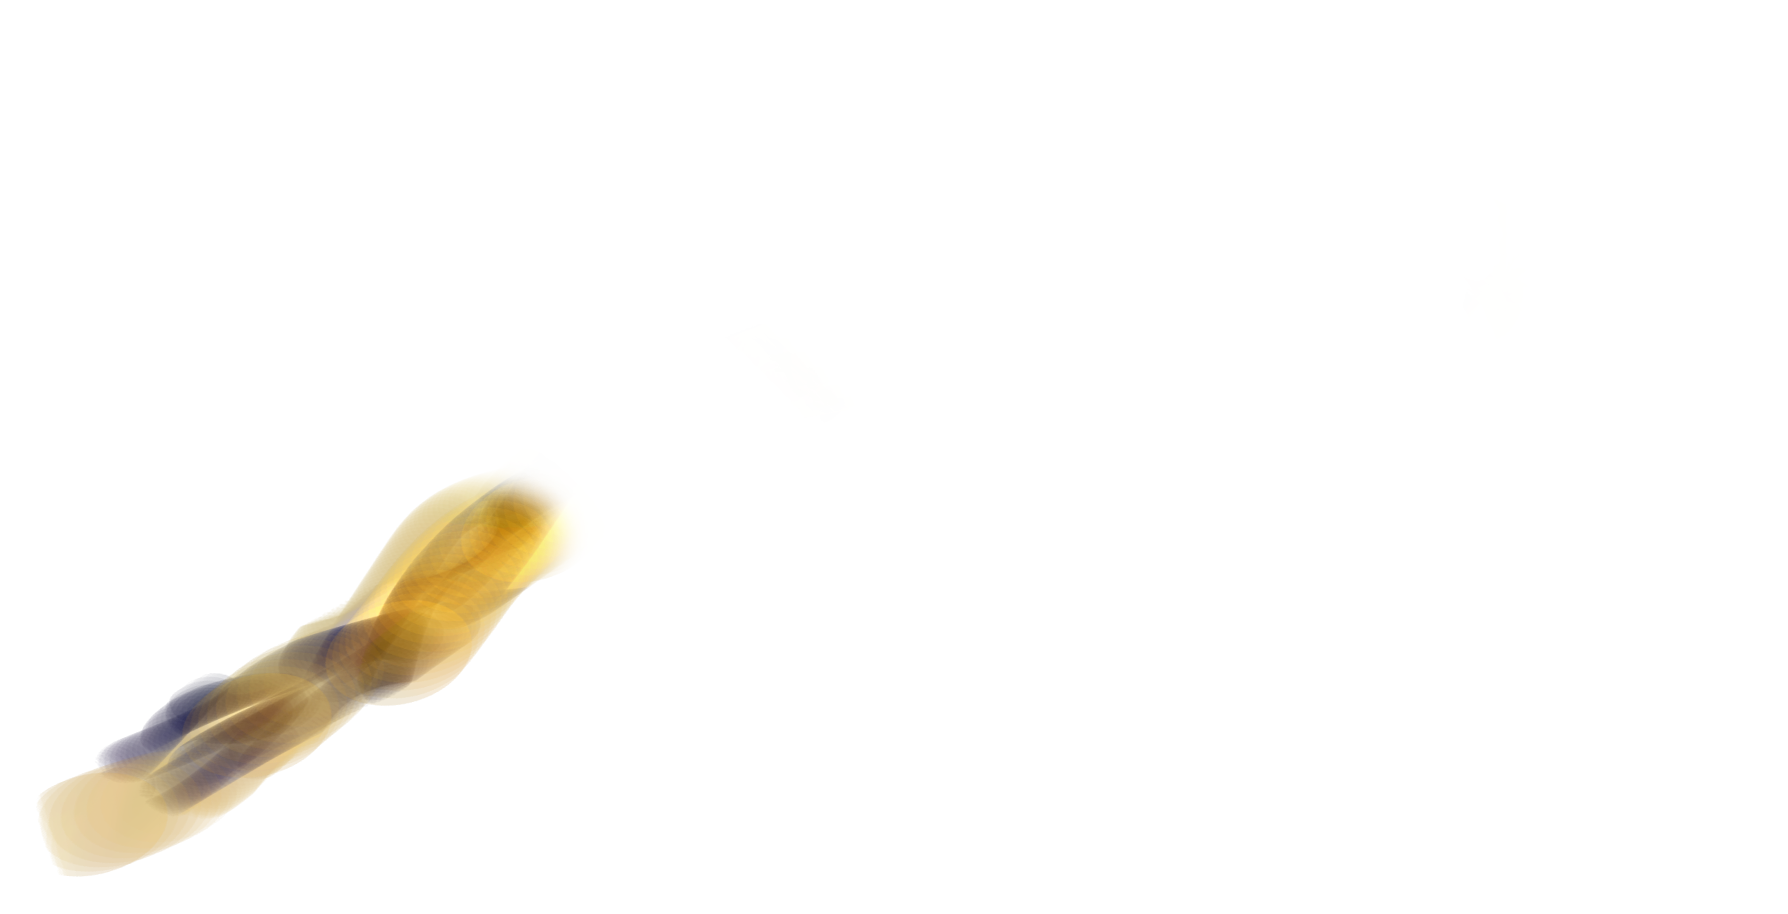
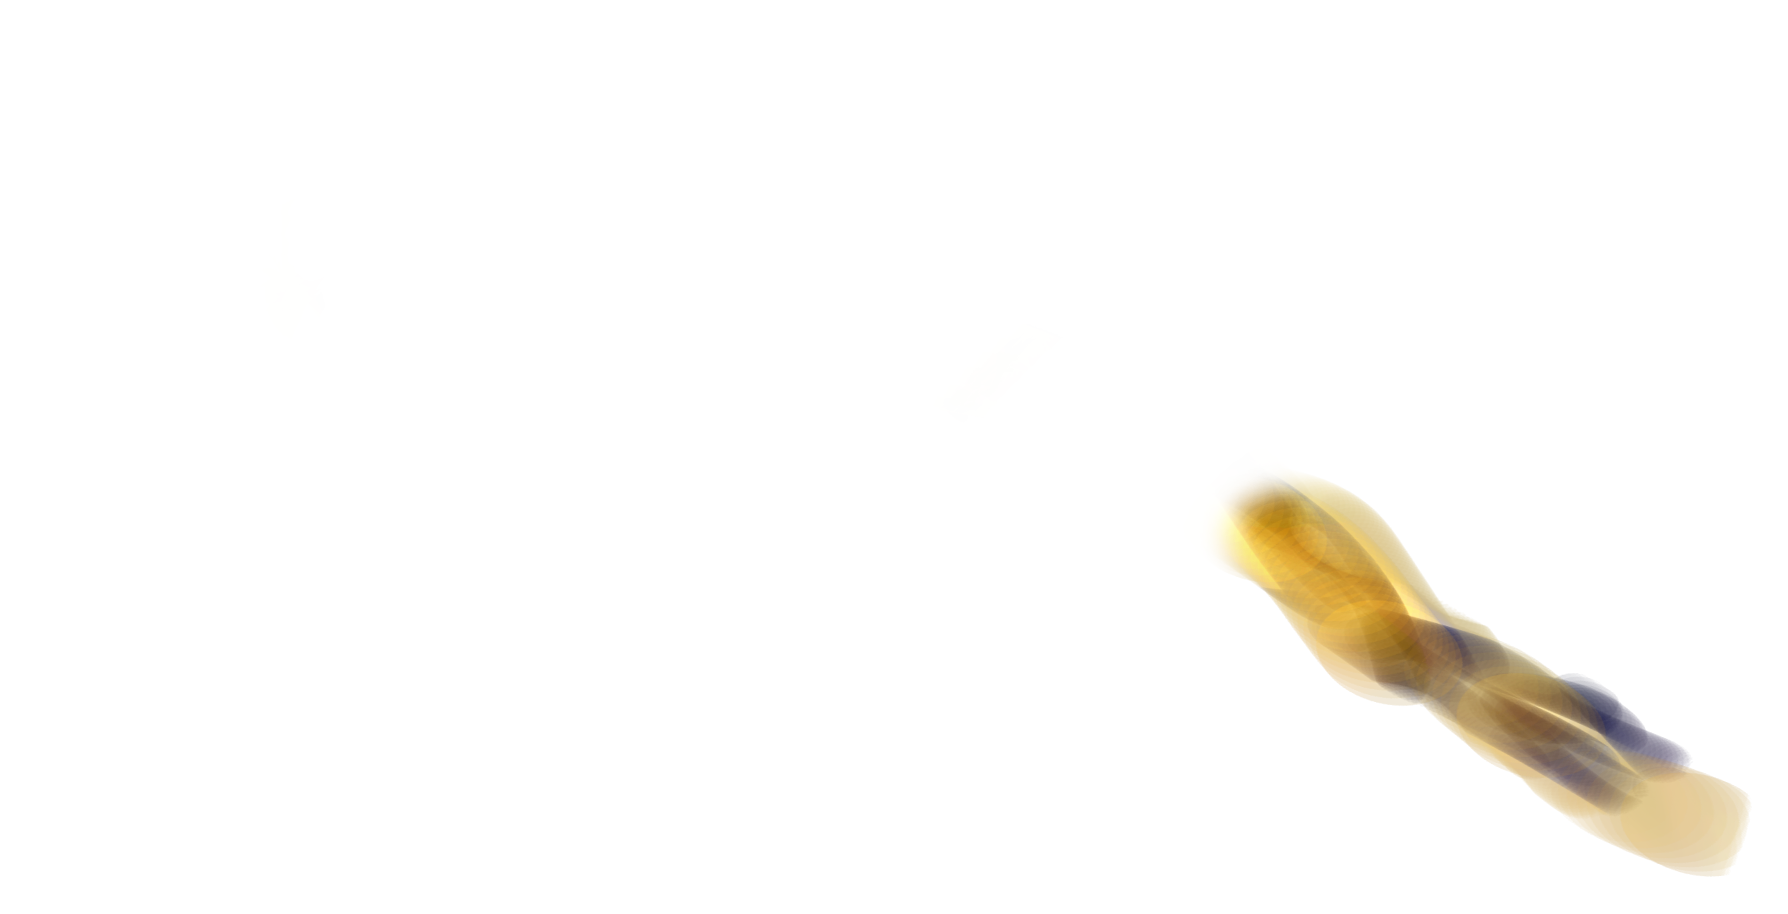
commit fixed RNA order

Changed region(s): [[0.6767, 0.5208, 0.9843, 0.9803], [0.0, 0.5208, 0.3384, 0.9803]]

diff --git a/lvl_transcription.go b/lvl_transcription.go
@@ -12,8 +12,6 @@ var (
 	rna         [5]Transcript
 	dna         [5]Template
 	spots       = [3]int{350, 650, 950}
-	DNAbases 	[15]Nucleobase
-	RNAbases	[15]Nucleobase
 )
 
 type TranscriptionLevel struct {
@@ -21,6 +19,11 @@ type TranscriptionLevel struct {
 	nucleusBg         StillImage
 	temp_tfa          TFA
 	rnaPolymerase     RNAPolymerase
+	RNA               [5]Transcript
+	DNA               [5]Template
+	DNAbases    	  [15]Nucleobase
+	origRNAbases	  [15]Nucleobase	// Dummy list containing positions and bases, accessed by RNA bases
+	RNAbases 		  [15]Nucleobase 	// List that is actually drawn onto screen and updated.
 	rightChoice       CodonChoice
 	wrongChoice1      CodonChoice
 	wrongChoice2      CodonChoice
@@ -41,9 +44,10 @@ func newTranscriptionLevel(g *Game) {
 		transcriptionStruct = &TranscriptionLevel{
 			nucleusBg: newStillImage("NucleusBg.png", newRect(0, 0, 1250, 750)),
 
-			temp_tfa:      newTFA("inact_TFA.png", "act_TFA.png", newRect(450, -100, 150, 150), "tfa2"),
+			temp_tfa:      newTFA("inact_TFA.png", "act_TFA.png", newRect(420, -100, 150, 150), "tfa2"),
 			rnaPolymerase: newRNAPolymerase("rnaPolym.png", newRect(-400, 100, 340, 265)),
-
+			DNA:           dna,
+			RNA:           rna,
 			message: "WELCOME TO THE NUCLEUS! \n" +
 				"Drag the complementary RNA codon \n" +
 				"to RNA Polymerase to transcribe \n" +
@@ -58,6 +62,9 @@ func newTranscriptionLevel(g *Game) {
 
 		g.transcriptionSprites = []GUI{
 			&transcriptionStruct.nucleusBg, &transcriptionStruct.temp_tfa,
+			&transcriptionStruct.DNA[0],
+			&transcriptionStruct.RNA[1], &transcriptionStruct.RNA[2],
+			&transcriptionStruct.RNA[3], &transcriptionStruct.RNA[4],
 			&transcriptionStruct.rnaPolymerase, &transcriptionStruct.rightChoice,
 			&transcriptionStruct.wrongChoice1, &transcriptionStruct.wrongChoice2,
 			&transcriptionStruct.otherToMenuButton, &transcriptionStruct.infoButton,
@@ -68,11 +75,18 @@ func newTranscriptionLevel(g *Game) {
 
 func (t *TranscriptionLevel) Init(g *Game) {
 	currentFrag = 0
-	for x := 0; x < len(RNAbases); x++ {
-		base := string(rna[x/3].codon[x%3])
-		posX := 125+rna[4].rect.pos.x + (50*x)
-		posY := rna[4].rect.pos.y+275 - (15*x)
-		RNAbases[x] = newNucleobase(base, newRect(posX, posY, 65, 150), x, false)
+	for x := 0; x < len(t.origRNAbases); x++ {
+		base := string(t.RNA[x/3].codon[x%3])
+		posX := 125 + t.RNA[currentFrag].rect.pos.x + (50 * x)
+		posY := 250 + t.RNA[currentFrag].rect.pos.y + 220 - (15 * x)
+		t.origRNAbases[x] = newNucleobase(base, newRect(posX, posY, 65, 150), x, false)
+	}
+	t.RNAbases = t.origRNAbases
+	for x := 0; x < len(t.DNAbases); x++ {
+		base := string(t.DNA[x/3].codon[x%3])
+		posX := t.DNA[2].rect.pos.x + (50 * x)
+		posY := t.DNA[2].rect.pos.y
+		t.DNAbases[x] = newNucleobase(base, newRect(posX, posY, 65, 150), x, true)
 	}
 	t.ResetChoices()
 	g.state_array = g.transcriptionSprites
@@ -85,14 +99,21 @@ func (t *TranscriptionLevel) ResetChoices() {
 	t.rightChoice.reset(0, 600, transcribe(curr.codon))
 	t.wrongChoice1.reset(1, 600, randomRNACodon(t.rightChoice.bases))
 	t.wrongChoice2.reset(2, 600, randomRNACodon(t.rightChoice.bases))
+	for x := 0; x < currentFrag*3; x++ {
+		temp := (currentFrag*3) - 1 - x
+		base := t.RNAbases[x]
+		base.rect.pos.y = t.origRNAbases[temp].rect.pos.y
+		t.RNAbases[x] = base
+	}
 	reset = false
 }
 
 func (t *TranscriptionLevel) Update(g *Game) {
 	t.otherToMenuButton.update(g)
+	t.RNA[currentFrag].update()
 	t.infoButton.update()
 	t.temp_tfa.update()
-	t.rnaPolymerase.update(t.temp_tfa.rect.pos.y)
+	t.rnaPolymerase.update(g)
 
 	curr := &dna[currentFrag]
 
@@ -105,13 +126,9 @@ func (t *TranscriptionLevel) Update(g *Game) {
 	t.wrongChoice1.update(curr)
 	t.wrongChoice2.update(curr)
 
-	if curr.is_complete {
-		nextDNACodon(g)
-	}
-
-	for i, base := range RNAbases {
+	for i, base := range t.RNAbases {
 		base.update()
-		RNAbases[i] = base
+		t.RNAbases[i] = base
 	}
 
 }
@@ -119,9 +136,9 @@ func (t *TranscriptionLevel) Update(g *Game) {
 func (t *TranscriptionLevel) Draw(g *Game, screen *ebiten.Image) {
 	t.nucleusBg.draw(screen)
 
-	rna[currentFrag].draw(screen)
+	t.RNA[currentFrag].draw(screen)
 	t.rnaPolymerase.draw(screen)
-	dna[0].draw(screen)
+	t.DNA[0].draw(screen)
 	t.temp_tfa.draw(screen)
 	//codonFont.drawFont(screen, strings.Join(template[0:5], ""), dna[currentFrag].rect.pos.x+300, dna[currentFrag].rect.pos.y, color.Black)
 
@@ -129,13 +146,25 @@ func (t *TranscriptionLevel) Draw(g *Game, screen *ebiten.Image) {
 	t.wrongChoice1.draw(screen)
 	t.wrongChoice2.draw(screen)
 
-	for z := 0; z < currentFrag*3; z++ {
-		RNAbases[z].draw(screen)
+	for y := 0; y < currentFrag*3; y++ {
+		t.RNAbases[y].draw(screen)
 	}
 
 	if currentFrag != -1 {
-		codonFont.drawFont(screen, dna[currentFrag].codon, dna[0].rect.pos.x+500, dna[0].rect.pos.y+50, color.Black)
+		if currentFrag == 0 {
+			t.DNAbases[0].draw(screen)
+			t.DNAbases[1].draw(screen)
+			t.DNAbases[2].draw(screen)
+		} else {
+			for y := 0; y < 3; y++ {
+				t.DNAbases[(currentFrag*3)+y].draw(screen)
+			}
+		}
 	}
+
+	//if currentFrag != -1 {
+	//	codonFont.drawFont(screen, dna[currentFrag].codon, dna[0].rect.pos.x+500, dna[0].rect.pos.y+50, color.Black)
+	//}
 
 	defaultFont.drawFont(screen, t.message, 75, 50, color.Black)
 

diff --git a/gui.go b/gui.go
@@ -79,6 +79,7 @@ type TFA struct {
 type Transcript struct {
 	Sprite
 	codon string
+	isRNA bool
 }
 
 type Template struct {
@@ -580,9 +581,15 @@ func (t *TFA) update(params ...interface{}) {
 		if t.rect.pos.y <= screenHeight && t.tfaType == "tfa1" {
 			t.rect.pos.y += 2 * (screenHeight / 750)
 		}
-		if t.rect.pos.y <= 450 && t.tfaType == "tfa2" {
-			t.rect.pos.y += 4 * (screenHeight / 750)
-			t.rect.pos.x -= 2 * (screenWidth / 1250)
+		if t.tfaType == "tfa2" {
+			rnaPolymPos := transcriptionStruct.rnaPolymerase.rect.pos
+			if rnaPolymPos.x >= 80 {
+				t.rect.pos.x = rnaPolymPos.x + 60
+				t.rect.pos.y = rnaPolymPos.y + 115
+			} else if t.rect.pos.y <= 450 {
+				t.rect.pos.y += 4 * (screenHeight / 750)
+				t.rect.pos.x -= 2 * (screenWidth / 1250)
+			}
 		}
 	}
 }
@@ -605,40 +612,52 @@ func newRNAPolymerase(path string, rect Rectangle) RNAPolymerase {
 
 func (r *RNAPolymerase) update(params ...interface{}) {
 	if len(params) > 0 {
-		tfaPosY, ok := params[0].(int)
+		g, ok := params[0].(*Game)
+		tfaPosY := transcriptionStruct.temp_tfa.rect.pos.y
 		if !ok {
 			return
 		}
-		if tfaPosY >= 450 {
-			if r.rect.pos.x <= 110 {
-				r.rect.pos.y += 1 * (screenHeight / 750)
-				r.rect.pos.x += 2 * (screenWidth / 1250)
+		if tfaPosY >= 420 {
+			if r.rect.pos.x <= 80 {
+				r.rect.pos.y += 2 * (screenHeight / 750)
+				r.rect.pos.x += 4 * (screenWidth / 1250)
+			}
+		}
+		// Checks if current DNA codon is complete
+		if dna[currentFrag].is_complete {
+			if currentFrag == 4 && r.rect.pos.x < screenWidth+50 {
+				r.rect.pos.x += 5 * (screenWidth / 1250)
+				r.rect.pos.y += 3 * (screenHeight / 750)
+			} else if r.rect.pos.x < (160 * (currentFrag + 1)) {
+				r.rect.pos.x += 5 * (screenWidth / 1250)
+			} else {
+				nextDNACodon(g)
 			}
 		}
 	}
 }
 
 func (r RNAPolymerase) draw(screen *ebiten.Image) {
-	op := &ebiten.DrawImageOptions{}
-	op.GeoM.Translate(float64(r.rect.pos.x), float64(r.rect.pos.y))
-	scaleW := float64(screenWidth) / 1250
-	scaleH := float64(screenHeight) / 750
-	op.GeoM.Scale(scaleW, scaleH)
-	r.rect.width *= int(scaleW)
-	r.rect.height *= int(scaleH)
-	screen.DrawImage(r.image, op)
+	r.Sprite.draw(screen)
 }
 
-func newTranscript(path string, rect Rectangle, codon string) Transcript {
+func newTranscript(path string, rect Rectangle, codon string, isRNA bool) Transcript {
 	sprite := newSprite(path, rect, 0.5)
 	return Transcript{
 		Sprite: sprite,
 		codon:  codon,
+		isRNA:  isRNA,
 	}
 }
 
 func (transcr Transcript) draw(screen *ebiten.Image) {
 	transcr.Sprite.draw(screen)
+}
+
+func (transcr *Transcript) update(params ...interface{}) {
+	if transcr.isRNA {
+		transcr.rect.pos.x = transcriptionStruct.rnaPolymerase.rect.pos.x - 750
+	}
 }
 
 func newTemplate(path string, rect Rectangle, codon string, fragment int) Template {
@@ -654,6 +673,8 @@ func newTemplate(path string, rect Rectangle, codon string, fragment int) Templa
 func (temp Template) draw(screen *ebiten.Image) {
 	temp.Sprite.draw(screen)
 }
+
+func (temp Template) update(params ...interface{}) {}
 
 func (transcr *Transcript) move() {
 	if transcr.rect.pos.x < 1250 {
@@ -782,8 +803,10 @@ func (ribo Ribosome) draw(screen *ebiten.Image) {
 
 func newNucleobase(btype string, rect Rectangle, index int, isTemp bool) Nucleobase {
 	path := nucleobaseImages[btype]
-	sprite := newSprite(path, rect, 0.5)
-	if isTemp == false {sprite.op.Rotate(-3.14)}
+	sprite := newSprite(path, rect, 0.48)
+	if !isTemp {
+		sprite.op.Rotate(-3.14)
+	}
 	return Nucleobase{
 		Sprite:     sprite,
 		baseType:   btype,
@@ -802,13 +825,17 @@ var nucleobaseImages = map[string]string{
 
 func (n Nucleobase) draw(screen *ebiten.Image) {
 	n.Sprite.draw(screen)
-	codonFont.drawFont(screen, n.baseType, n.rect.pos.x-50, n.rect.pos.y-50, color.Black)
+	if !n.isTemplate {
+		codonFont.drawFont(screen, n.baseType, n.rect.pos.x-50, n.rect.pos.y-50, color.Black)
+	} else {
+		codonFont.drawFont(screen, n.baseType, n.rect.pos.x, n.rect.pos.y+100, color.Black)
+	}
+
 }
 
 func (n *Nucleobase) update(params ...interface{}) {
-	posX := 150 + rna[4].rect.pos.x + (50 * n.index)
-	n.rect.pos.x = posX
-	n.rect.pos.y = rna[4].rect.pos.y + 500 - (25 * n.index)
+	n.rect.pos.x = (675 + transcriptionStruct.RNA[currentFrag].rect.pos.x + (50 * n.index)) - 150*(currentFrag-1)
+	n.rect.pos.y = (transcriptionStruct.RNA[4].rect.pos.y + 400 + (25 * n.index)) - 75*(currentFrag-1)
 }
 
 func (n Nucleobase) String() string {

diff --git a/lvl_translation.go b/lvl_translation.go
@@ -9,14 +9,16 @@ import (
 
 var (
 	mrna_ptr = 0
-	mrna     [5]Template
-	protein  [5]Transcript
+	mrna     	[5]Template
+	protein  	[5]Transcript	
+	mRNAbases   [15]Nucleobase
 )
 
 type TranslationLevel struct {
 	// TRANSLATION SPRITES
 	cytoBg_2          StillImage
 	ribosome          Ribosome
+	mRNA			  [5]Template
 	rightTrna         tRNA
 	wrongTrna1        tRNA
 	wrongTrna2        tRNA
@@ -33,7 +35,7 @@ func newTranslationLevel(g *Game) {
 			cytoBg_2: newStillImage("CytoBg2.png", newRect(0, 0, 1250, 750)),
 
 			ribosome: newRibosome("ribosome.png", newRect(40, 300, 404, 367)),
-
+			mRNA: mrna,
 			message: 
 				"FINALLY, BACK TO THE CYTOPLASM! \n" +
 				"Drag the tRNA with the corresponding \n" +
@@ -49,6 +51,7 @@ func newTranslationLevel(g *Game) {
 
 		g.translationSprites = []GUI{
 			&translationStruct.cytoBg_2, &translationStruct.ribosome, 
+			&translationStruct.mRNA[0],
 			&translationStruct.rightTrna, &translationStruct.wrongTrna1,
 			&translationStruct.wrongTrna2, &translationStruct.otherToMenuButton,
 			&translationStruct.infoButton, 
@@ -59,7 +62,12 @@ func newTranslationLevel(g *Game) {
 
 func (t *TranslationLevel) Init(g *Game) {
 	mrna_ptr = 0
-	reset = false
+	for x := 0; x < len(mRNAbases); x++ {
+		base := string(mrna[x/3].codon[x%3])
+		posX := mrna[2].rect.pos.x + (50 * x)
+		posY := mrna[2].rect.pos.y
+		mRNAbases[x] = newNucleobase(base, newRect(posX, posY, 65, 150), x, true)
+	}
 	t.ResetChoices()
 	g.state_array = g.translationSprites
 }
@@ -91,7 +99,7 @@ func (t *TranslationLevel) Update(g *Game) {
 func (t *TranslationLevel) Draw(g *Game, screen *ebiten.Image) {
 	t.cytoBg_2.draw(screen)
 
-	mrna[0].draw(screen)
+	t.mRNA[0].draw(screen)
 
 	t.rightTrna.draw(screen)
 	t.wrongTrna1.draw(screen)
@@ -107,11 +115,19 @@ func (t *TranslationLevel) Draw(g *Game, screen *ebiten.Image) {
 		}
 	}
 
-	if mrna_ptr != -1 {
-		codonFont.drawFont(screen, mrna[mrna_ptr].codon, mrna[0].rect.pos.x+500, mrna[0].rect.pos.y+300, color.Black)
-	}
-
 	t.ribosome.draw(screen)
+
+	if mrna_ptr != -1 {
+		if mrna_ptr == 0 {
+			mRNAbases[0].draw(screen)
+			mRNAbases[1].draw(screen)
+			mRNAbases[2].draw(screen)
+		} else {
+			for y := 0; y < 3; y++ {
+				mRNAbases[(mrna_ptr*3)+y].draw(screen)
+			}
+		}
+	}
 
 	defaultFont.drawFont(screen, t.message, 75, 50, color.Black)
 

diff --git a/scene_switch.go b/scene_switch.go
@@ -71,13 +71,13 @@ func (g *Game) reset() {
 		dna[x] = newTemplate("DNA.png", newRect(200*x, 400, 150, 150), template[x], x)
 	}
 	for x := 0; x < 5; x++ {
-		rna[x] = newTranscript("RNA"+fmt.Sprint(x)+".png", newRect(250, 0, 150, 150), transcribe(template[x]))
+		rna[x] = newTranscript("RNA"+fmt.Sprint(x)+".png", newRect((100*x)-0, 0, 150, 150), transcribe(template[x]), true)
 	}
 
 	for x := 0; x < 5; x++ {
-		mrna[x] = newTemplate("DNA.png", newRect(0, 400, 150, 150), transcribe(dna[x].codon), x)
+		mrna[x] = newTemplate("DNA.png", newRect(100*x, 400, 150, 150), transcribe(dna[x].codon), x)
 	}
 	for x := 0; x < 5; x++ {
-		protein[x] = newTranscript("aminoAcid.png", newRect(50+(150*x), 400, 150, 150), translate(mrna[x].codon))
+		protein[x] = newTranscript("aminoAcid.png", newRect(50+(150*x), 400, 150, 150), translate(mrna[x].codon), false)
 	}
 }
